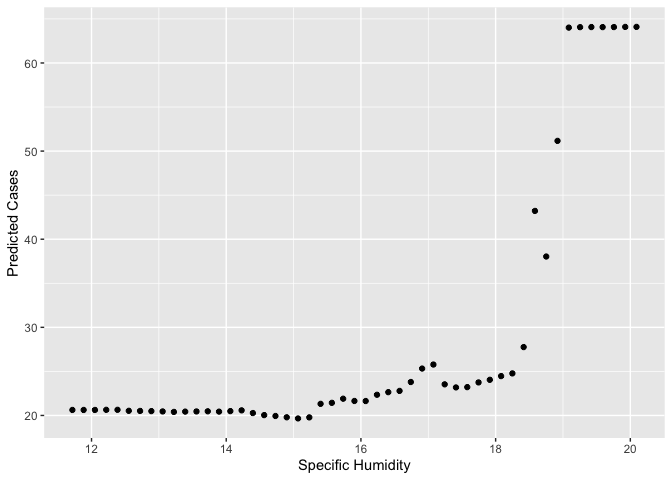
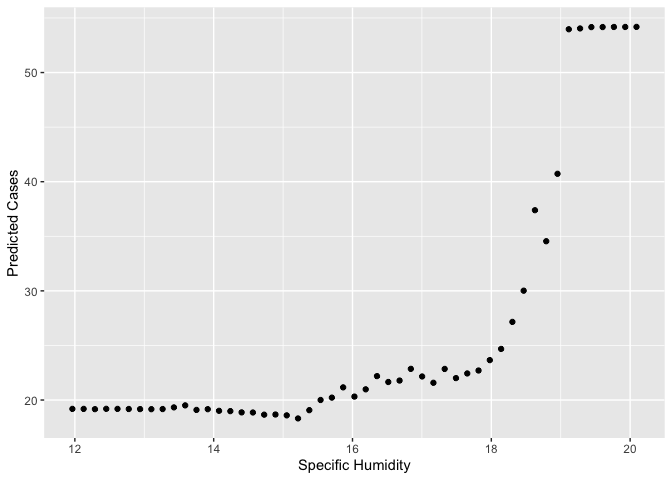
Updates

diff --git a/Exercise 3/Problem-Set-3.md b/Exercise 3/Problem-Set-3.md
@@ -106,39 +106,39 @@ and the larger the increase, the bigger the effect on crime.
 <tbody>
 <tr class="odd">
 <td style="text-align: left;">lm1 (baseline)</td>
-<td style="text-align: right;">22.13330</td>
+<td style="text-align: right;">27.39341</td>
 </tr>
 <tr class="even">
 <td style="text-align: left;">lm2</td>
-<td style="text-align: right;">22.17757</td>
+<td style="text-align: right;">27.48432</td>
 </tr>
 <tr class="odd">
 <td style="text-align: left;">lm3</td>
-<td style="text-align: right;">22.25359</td>
+<td style="text-align: right;">27.50971</td>
 </tr>
 <tr class="even">
 <td style="text-align: left;">dengue_tree1</td>
-<td style="text-align: right;">28.80949</td>
+<td style="text-align: right;">32.01659</td>
 </tr>
 <tr class="odd">
 <td style="text-align: left;">dengue_tree2</td>
-<td style="text-align: right;">28.71394</td>
+<td style="text-align: right;">32.35450</td>
 </tr>
 <tr class="even">
 <td style="text-align: left;">dengue_forest1</td>
-<td style="text-align: right;">24.15293</td>
+<td style="text-align: right;">25.53912</td>
 </tr>
 <tr class="odd">
 <td style="text-align: left;">dengue_boost1</td>
-<td style="text-align: right;">27.36428</td>
+<td style="text-align: right;">28.05855</td>
 </tr>
 <tr class="even">
 <td style="text-align: left;">dengue_boost2</td>
-<td style="text-align: right;">26.24023</td>
+<td style="text-align: right;">31.68655</td>
 </tr>
 <tr class="odd">
 <td style="text-align: left;">dengue_boost3</td>
-<td style="text-align: right;">26.29683</td>
+<td style="text-align: right;">31.73855</td>
 </tr>
 </tbody>
 </table>
@@ -162,15 +162,15 @@ models, one random forest, and three gradient-boosted models.
 <tbody>
 <tr class="odd">
 <td style="text-align: left;">dengue_tree1</td>
-<td style="text-align: right;">23.28363</td>
+<td style="text-align: right;">26.64949</td>
 </tr>
 <tr class="even">
 <td style="text-align: left;">dengue_forest1</td>
-<td style="text-align: right;">21.72325</td>
+<td style="text-align: right;">23.25155</td>
 </tr>
 <tr class="odd">
 <td style="text-align: left;">dengue_boost1</td>
-<td style="text-align: right;">23.66164</td>
+<td style="text-align: right;">25.62078</td>
 </tr>
 </tbody>
 </table>
@@ -224,55 +224,132 @@ facilities.
 
 ### Write a short report, no more than the equivalent of about 4 pages, detailing your methods, modeling choice, and conclusions.
 
+## Introduction
+
+We are working on the data set on green buildings, which contains data
+on 7,894 commercial rental properties from across the United States. Of
+these, 685 properties have been awarded either LEED or EnergyStar
+certification as green buildings.
+
+The goal is to build the best predictive model possible for revenue per
+square foot per calendar year, and to use this model to quantify the
+average change in rental income per square foot associated with green
+certification, holding other features of the building constant.
+
+## Importance
+
+Urbanization is forecast to continue: in 2010, slightly over 50% of the
+world’s population lived in urban areas, and by 2050, the corresponding
+figure is projected to be already over 66%. Currently, cities and built
+environments use approximately 75% of generated energy and produce
+60–70% of greenhouse gas emissions. Buildings account for approximately
+40% of energy use and carbon emissions. At the same time, the real
+estate sector comprises approximately 60% of national, corporate, and
+individual wealth, totaling over 200 trillion USD. Moreover, yearly
+construction-related global spending equals 10 trillion USD,
+corresponding approximately to 13% of GDP. Thus, enhancing
+sustainability in built environments matters, and property investors can
+choose to make a change for the better by allocating assets to
+sustainable properties and enhancing the sustainability of their
+existing properties (Leskinen et. al, 2020).
+
+In commercial real estate, issues of eco-friendliness are intimately
+tied up with ordinary decisions about how to allocate capital. Every new
+project involves negotiating a trade-off between costs incurred and
+benefits realized over the lifetime of the building. In this context,
+the decision to invest in eco-friendly buildings could pay off in many
+possible ways. Of course, at the end of the day, tenants may or may not
+be willing to pay a premium for rental space in green buildings. We can
+only find out by carefully examining data on the commercial real estate
+market.
+
+At first look, it seems that having a green certificate has a
+considerable effect on the profitability of a home (Box Plot and
+difference in the means). But we should examine this effect, since this
+effect can be correlated with the other features, and the change in
+profitability is not due to the direct effect of certification.
+
+## Data
+
+The file greenbuildings.csv contains data on 7,894 commercial rental
+properties from across the United States. Of these, 685 properties have
+been awarded either LEED or EnergyStar certification as green buildings.
+The basic idea is that a commercial property can receive a green
+certification if its energy efficiency, carbon footprint, site
+selection, and building materials meet certain environmental benchmarks.
+
+To employ the data in our models, we should work on the data and modify
+some features. The “mutate” function is used to create (modify)
+columns: - “Revenue = leasing\_rate \* Rent”. - Through the “across”
+function, we apply “factor” to (renovated, class\_a, class\_b, LEED,
+Energystar, green\_rating, net, amenities), which will convert them to
+factors.
+
+The “select” function is used to select columns from the data frame. In
+this case, the “-” sign is used to indicate that columns should be
+excluded from the selection. The columns being excluded are
+“CS\_PropertyID”, “Rent”, and “leasing\_rate”. Because the first is only
+the ID of homes, and the others are used in the definition of Revenue.
+So, we should exclude them from the features we want to use as
+independent variables.
+
 ![](Problem-Set-3_files/figure-markdown_strict/3.1-1.png)
 
-    ## [1] 871.8804
-
-<table>
-<caption>RMSE of each model, first pass</caption>
-<thead>
-<tr class="header">
-<th style="text-align: left;">model</th>
-<th style="text-align: right;">RMSE</th>
-</tr>
-</thead>
-<tbody>
-<tr class="odd">
-<td style="text-align: left;">lm (baseline)</td>
-<td style="text-align: right;">970.7020</td>
-</tr>
-<tr class="even">
-<td style="text-align: left;">buildings.tree0</td>
-<td style="text-align: right;">871.8804</td>
-</tr>
-<tr class="odd">
-<td style="text-align: left;">buildings.forest0</td>
-<td style="text-align: right;">694.7563</td>
-</tr>
-<tr class="even">
-<td style="text-align: left;">buildings.forest1</td>
-<td style="text-align: right;">694.5296</td>
-</tr>
-<tr class="odd">
-<td style="text-align: left;">buildings.forest2</td>
-<td style="text-align: right;">845.5001</td>
-</tr>
-</tbody>
-</table>
-
-RMSE of each model, first pass
-
-![](Problem-Set-3_files/figure-markdown_strict/3.1-2.png)![](Problem-Set-3_files/figure-markdown_strict/3.1-3.png)![](Problem-Set-3_files/figure-markdown_strict/3.1-4.png)![](Problem-Set-3_files/figure-markdown_strict/3.1-5.png)![](Problem-Set-3_files/figure-markdown_strict/3.1-6.png)
+    ## diffmean 
+    ##  320.519
 
  
 
-Our best model above is a random forest.
+## Modeling
 
-Comparing with a boosted regression tree:
+Unlike linear regression models, decision trees are not limited to
+modeling linear relationships and can capture more complex patterns in
+the data. Since in this model, there are interactions between the
+features that cannot be easily modeled using linear, decision tree
+models can be good options.
 
-![](Problem-Set-3_files/figure-markdown_strict/3.2-1.png)
+One of the advantages of decision tree models is that they can help
+identify the most important features for predicting the target variable.
+In this context, decision tree models help us to identify the real
+effect of green certification on the profit of a home. We have applied
+three techniques for building tree models.
 
-    ## [1] 73
+First, we started with a single tree model, which included all the
+variables. To have a better comparison, we run a single tree ten times,
+and we use the average of their RMSEs. Decision trees can also be prone
+to overfitting, especially when the tree becomes very deep or when there
+are many irrelevant features in the data. To address this, we use
+ensemble methods such as random forests or gradient boosting, which
+combine the predictions of multiple trees to improve performance.
+
+    ## [1] 1145.938
+
+    ## [1] 939.7867
+
+ 
+
+We define two different random forests; the first is included all the
+variables, and the second includes some features (City\_Market\_Rent ,
+age, size+ class\_a, class\_b, Electricity\_Costs, green\_rating) that
+seem to be effective on the dependent variable.
+
+    ## [1] 921.2606
+
+    ## [1] 1036.544
+
+![](Problem-Set-3_files/figure-markdown_strict/3.3-1.png)
+
+ 
+
+And finally, we used another ensemble method, Boosted trees.
+
+    ## Distribution not specified, assuming gaussian ...
+
+    ## [1] 1106.191
+
+![](Problem-Set-3_files/figure-markdown_strict/3.4-1.png)
+
+    ## [1] 103
     ## attr(,"smoother")
     ## Call:
     ## loess(formula = object$oobag.improve ~ x, enp.target = min(max(4, 
@@ -280,8 +357,46 @@ Comparing with a boosted regression tree:
     ## 
     ## Number of Observations: 500 
     ## Equivalent Number of Parameters: 39.85 
-    ## Residual Standard Error: 914
+    ## Residual Standard Error: 949.5
 
-    ## [1] 985.2568
+ 
 
-![](Problem-Set-3_files/figure-markdown_strict/3.2-2.png)![](Problem-Set-3_files/figure-markdown_strict/3.2-3.png)
+## Conclusion
+
+Our measure for comparing the results are their RMSEs. Based on the
+results of the simulations, the random forest model included all
+variable has the lowest out of the sample RMSE. The other random forest
+has the second-best result, which shows proves the better performance of
+the random forest comparing the other decision trees models. So, to
+predict the revenue per square foot per calendar year, we will apply the
+comprehensive random forest model.
+
+Back to the main question, how much does a green certificate affect
+profitability?
+
+Now, we have reliable tools to see the real (partial) effect of the
+green certificate. At first, we can check this effect through
+“varImpPlot”, which shows how much mean-squared error increases when we
+ignore a variable, to human language it means that without any
+information about the status of a green certificate, the error of the
+predictions changes less than the other features.
+
+    ##   green_rating     yhat
+    ## 1            0 2396.901
+    ## 2            1 2455.084
+
+![](Problem-Set-3_files/figure-markdown_strict/3.5-1.png)
+
+ 
+
+Then, we can calculate the partial dependence shows the average response
+of the model to changes in the green certificate variable while holding
+all other predictor variables constant. The result can change based on
+the trained data, but changes between having vs not-having the
+certificate is less than 50$ in revenue per square foot per calendar
+year!
+
+The result is interesting because at first look, comparing the mean of
+two categories (having vs not-having the certificate) indicates 300$
+revenue per square foot per calendar year; which can be misleading
+compared to the real effect that the random forest model gives us!
